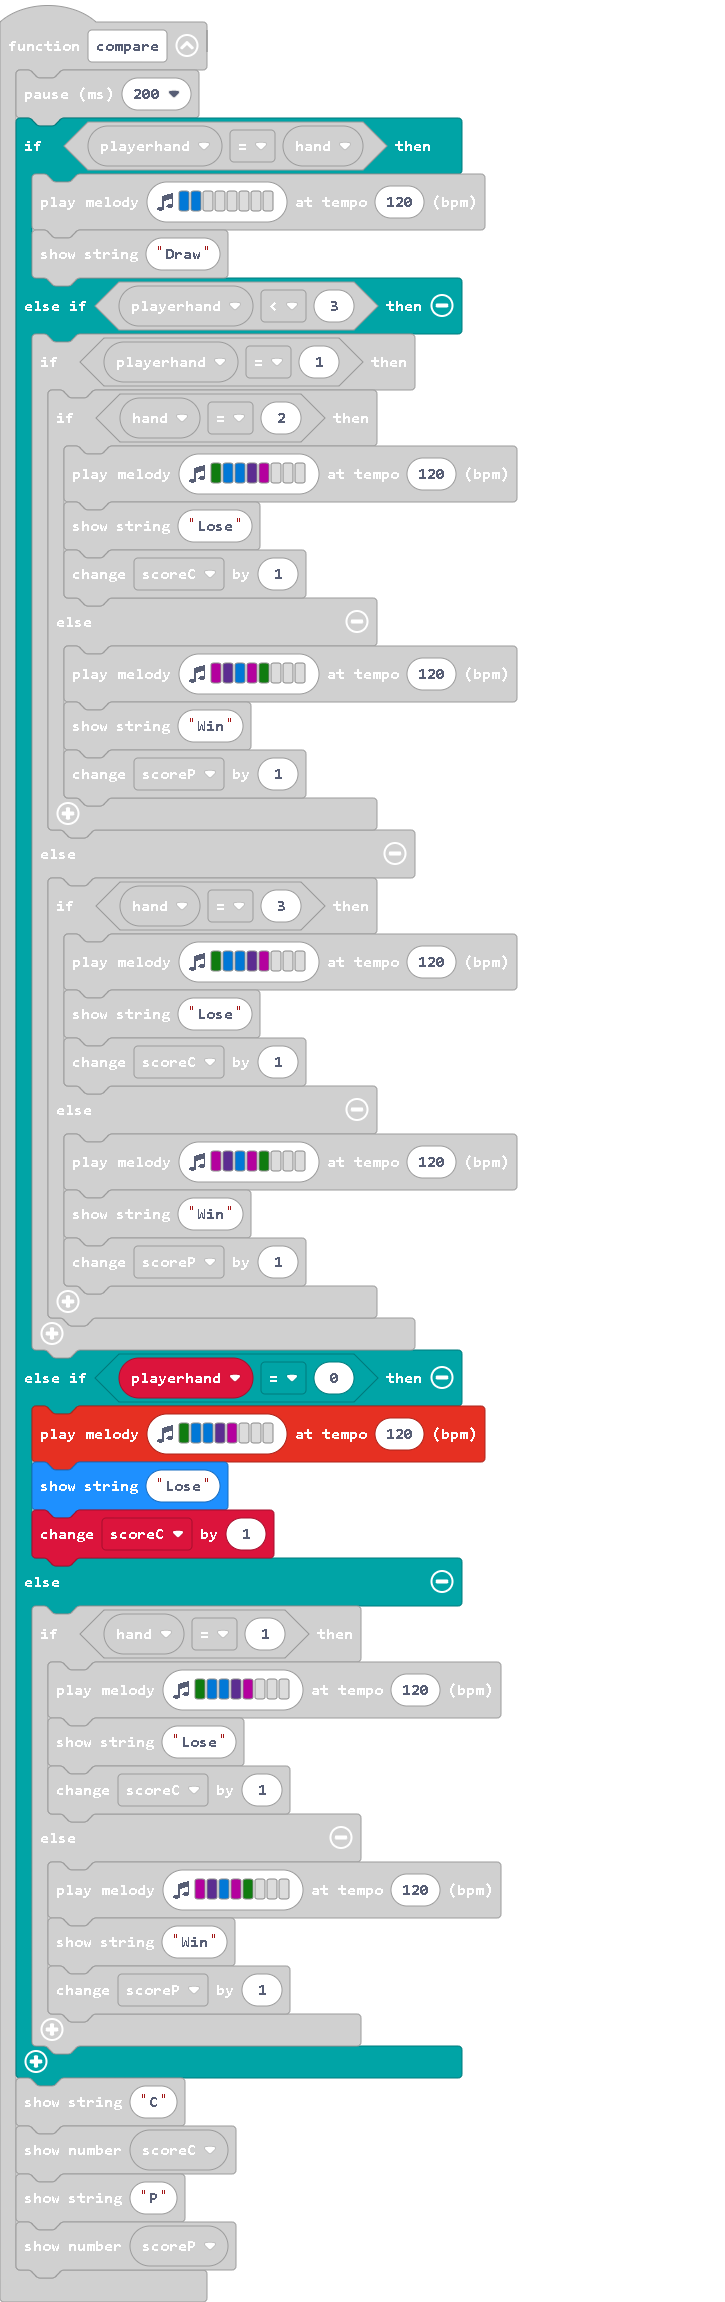
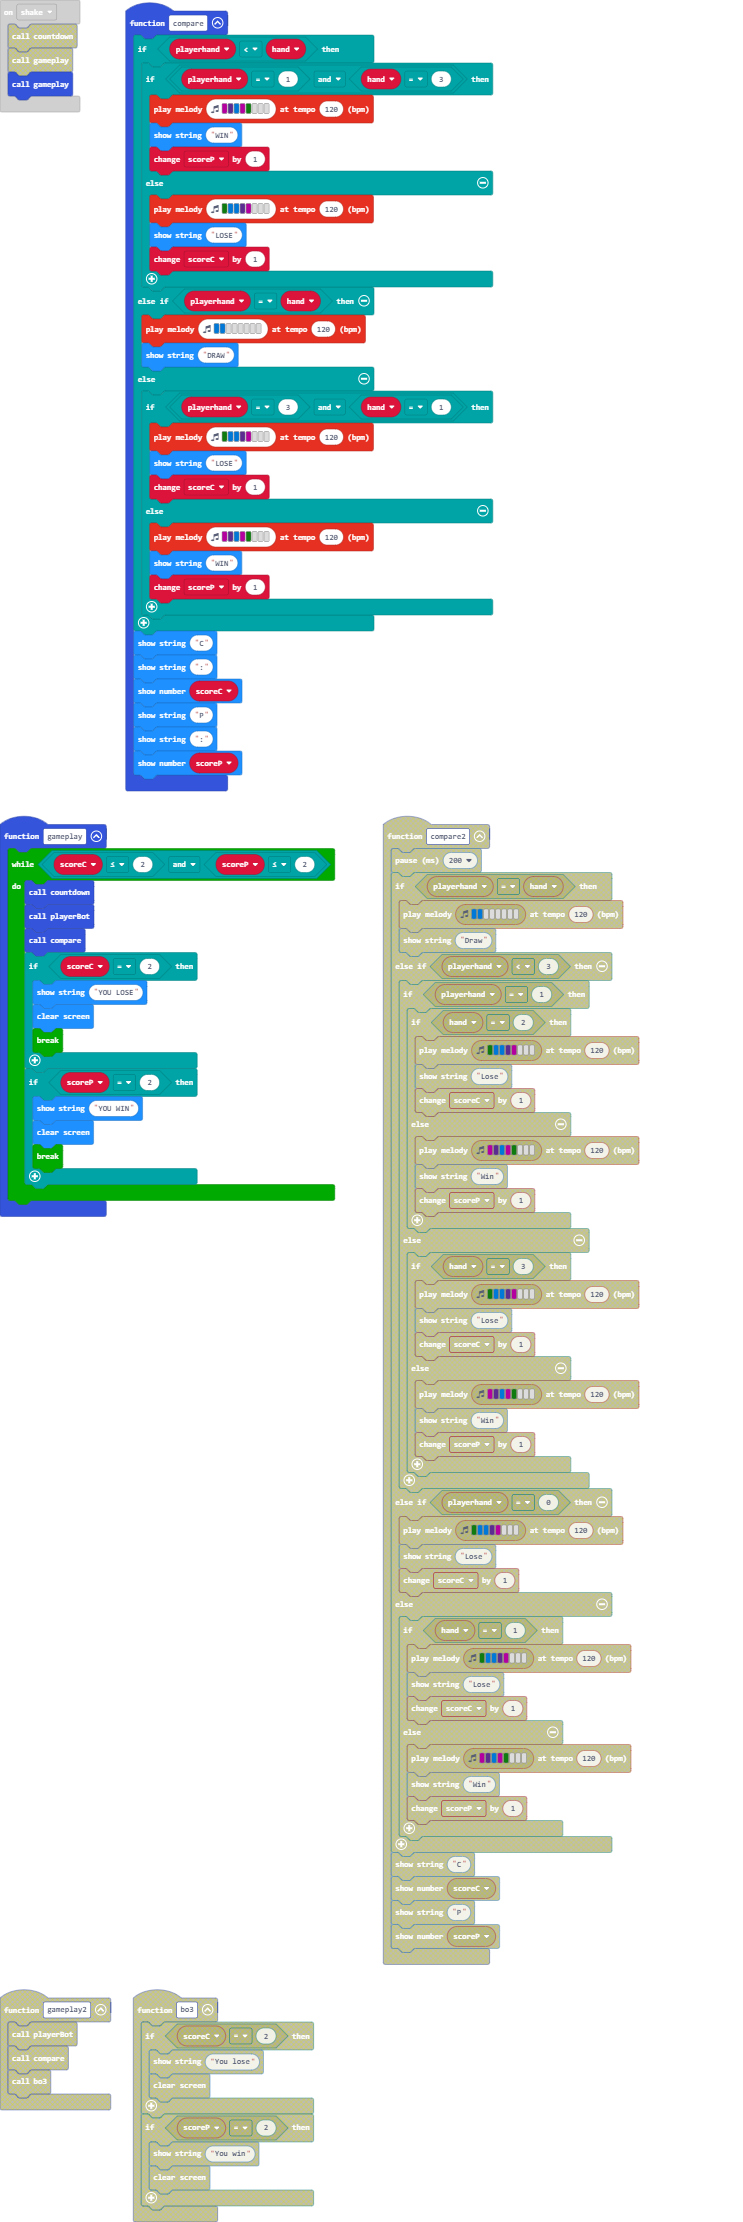
change gameplay, reduce code in compare

diff --git a/main.ts b/main.ts
@@ -1,48 +1,33 @@
 function compare () {
-    basic.pause(200)
-    if (playerhand == hand) {
-        music.playMelody("E E - - - - - - ", 120)
-        basic.showString("Draw")
-    } else if (playerhand < 3) {
-        if (playerhand == 1) {
-            if (hand == 2) {
-                music.playMelody("G E E D C - - - ", 120)
-                basic.showString("Lose")
-                scoreC += 1
-            } else {
-                music.playMelody("C D E C G - - - ", 120)
-                basic.showString("Win")
-                scoreP += 1
-            }
+    if (playerhand < hand) {
+        if (playerhand == 1 && hand == 3) {
+            music.playMelody("C D E C G - - - ", 120)
+            basic.showString("WIN")
+            scoreP += 1
         } else {
-            if (hand == 3) {
-                music.playMelody("G E E D C - - - ", 120)
-                basic.showString("Lose")
-                scoreC += 1
-            } else {
-                music.playMelody("C D E C G - - - ", 120)
-                basic.showString("Win")
-                scoreP += 1
-            }
-        }
-    } else if (playerhand == 0) {
-        music.playMelody("G E E D C - - - ", 120)
-        basic.showString("Lose")
-        scoreC += 1
-    } else {
-        if (hand == 1) {
             music.playMelody("G E E D C - - - ", 120)
-            basic.showString("Lose")
+            basic.showString("LOSE")
+            scoreC += 1
+        }
+    } else if (playerhand == hand) {
+        music.playMelody("E E - - - - - - ", 120)
+        basic.showString("DRAW")
+    } else {
+        if (playerhand == 3 && hand == 1) {
+            music.playMelody("G E E D C - - - ", 120)
+            basic.showString("LOSE")
             scoreC += 1
         } else {
             music.playMelody("C D E C G - - - ", 120)
-            basic.showString("Win")
+            basic.showString("WIN")
             scoreP += 1
         }
     }
     basic.showString("C")
+    basic.showString(":")
     basic.showNumber(scoreC)
     basic.showString("P")
+    basic.showString(":")
     basic.showNumber(scoreP)
 }
 function countdown () {
@@ -78,16 +63,6 @@ input.onButtonPressed(Button.AB, function () {
     playerhand = 3
     basic.showIcon(IconNames.Square)
 })
-function bo3 () {
-    if (scoreC == 2) {
-        basic.showString("You lose")
-        basic.clearScreen()
-    }
-    if (scoreP == 2) {
-        basic.showString("You win")
-        basic.clearScreen()
-    }
-}
 input.onButtonPressed(Button.B, function () {
     playerhand = 2
     basic.showLeds(`
@@ -99,17 +74,28 @@ input.onButtonPressed(Button.B, function () {
         `)
 })
 input.onGesture(Gesture.Shake, function () {
-    countdown()
     gameplay()
 })
 function gameplay () {
-    playerBot()
-    compare()
-    bo3()
+    while (scoreC <= 2 && scoreP <= 2) {
+        countdown()
+        playerBot()
+        compare()
+        if (scoreC == 2) {
+            basic.showString("YOU LOSE")
+            basic.clearScreen()
+            break;
+        }
+        if (scoreP == 2) {
+            basic.showString("YOU WIN")
+            basic.clearScreen()
+            break;
+        }
+    }
 }
 let index2 = 0
-let scoreP = 0
 let scoreC = 0
+let scoreP = 0
 let hand = 0
 let playerhand = 0
 music.startMelody(music.builtInMelody(Melodies.Prelude), MelodyOptions.OnceInBackground)
